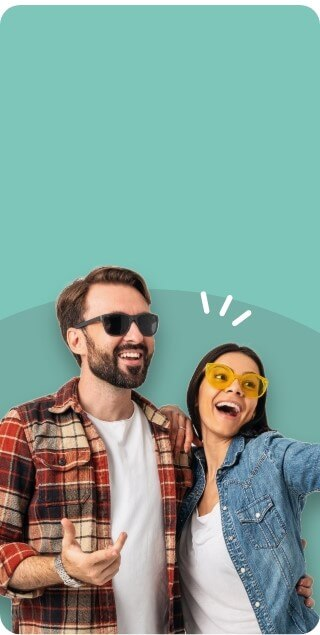
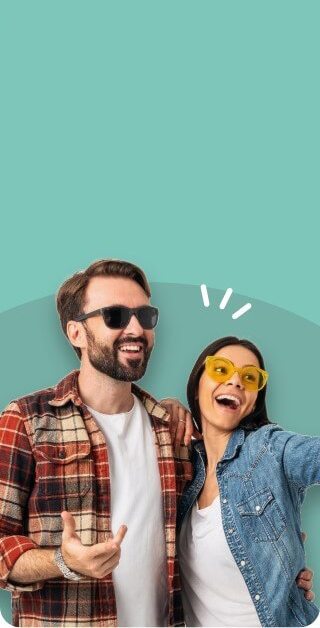
ultimos detalles mobile

diff --git a/landing-bodas.html b/landing-bodas.html
@@ -47,7 +47,7 @@
         <div class="container position-relative ">
 			<div class="row">
 				<div class="col-sm-6"></div>
-				<div class="col-sm-6 text-sm-end text-center pb-3 pb-sm-0">
+				<div class="col-sm-6 text-sm-end text-center pb-5 mb-5 mb-sm-0 pb-sm-0">
 					<div class="py-3"></div>
 					<h1 class="text-white fw-800 mt-0 fs-sm-48 fs-36">¡Crea tu invitación <br />
 					de boda soñada!</h1>
@@ -82,13 +82,13 @@
                                 Selecciona fotos significativas de ustedes, agrega frases que los identifiquen y su
                                 canción especial.</p>
                         </div>
-                        <div class="img-card"><img src="img/landing-bodas/benef-01.jpg" class="card-img bottom"
+                        <div class="img-card"><img src="img/landing-bodas/benef-01.jpg" class="card-img bottom w-100"
                                 alt="..."></div>
                     </div>
                 </div>
                 <div class="">
                     <div class="card border-0 h-100 bg-gray-light rounded-4">
-                        <div class="img-card"><img src="img/landing-bodas/benef-02.jpg" class="card-img top" alt="...">
+                        <div class="img-card"><img src="img/landing-bodas/benef-02.jpg" class="card-img top w-100" alt="...">
                         </div>
                         <div class="card-body text-center">
                             <div class="position-relative border border-1 rounded-pill  py-2 px-4 border-dark">
@@ -115,13 +115,13 @@
                                 y la identidad de la pareja. Simplemente elige una plantilla, personalízala como quieras
                                 y ¡listo!</p>
                         </div>
-                        <div class="img-card"><img src="img/landing-bodas/benef-03.jpg" class="card-img bottom"
+                        <div class="img-card"><img src="img/landing-bodas/benef-03.jpg" class="card-img bottom w-100"
                                 alt="..."></div>
                     </div>
                 </div>
                 <div class="">
                     <div class="card border-0 h-100 bg-gray-light rounded-4">
-                        <div class="img-card"><img src="img/landing-bodas/benef-04.jpg" class="card-img top" alt="...">
+                        <div class="img-card"><img src="img/landing-bodas/benef-04.jpg" class="card-img top w-100" alt="...">
                         </div>
                         <div class="card-body text-center">
                             <div class="position-relative border border-1 rounded-pill  py-2 px-4 border-dark">
@@ -163,7 +163,7 @@
     <div class="d-sm-none create2 position-relative">
         <div class="container justify-content-center" style="background-image: url('img/landing-bodas/bg-cta-mobile.jpg');">
             <div class="mt-5 pb-5">
-                <h2 class="text-white mt-5 fs-sm-26 text-center fw-600">CREA TU  <span class="fw-800">INVITACION <br>
+                <h2 class="text-white fs-sm-26 text-center fw-600">CREA TU  <span class="fw-800">INVITACION <br>
                         GRATUITA</span>
                     Y CON <br> GRANDES BENEFICIOS
                 </h2>
@@ -182,7 +182,7 @@
                         style="color: #F1B20A;">.</span></h2>
             </div>
 
-            <div class="position-relative mb-5 pb-5 mt-4">
+            <div class="position-relative mb-sm-5 pb-sm-5 mt-4">
                 <div class="my-slider  mx-3">
                     <div>
                         <a href="#">
@@ -304,7 +304,7 @@
                                     <p class="text-center fw-500 fs-sm-32 mb-0">$5.000</p>
                                 </div>
                                 <div class="bg-white pb-4 packs-items">
-                                    <div class="bg-aqua chose position-relative text-center rounded-4 p-3">
+                                    <div class="bg-aqua chose position-relative text-center rounded-4 p-3 text-white">
                                         <p class="fw-800 fs-sm-21">PACK PREMIUM</p>
                                         <a href="#" class="btn rounded-pill border-dark example">Ver ejemplo</a>
                                     </div>

diff --git a/css/landing-bodas.css b/css/landing-bodas.css
@@ -208,12 +208,15 @@ a {
 }
 
 .create2 .container {
-  height: 85vh;
-  background-size: contain;
+  background-size: cover;
   background-position: center center;
   background-repeat: no-repeat;
   display: flex;
-  margin: 10px;
+  margin: 0 10px;
+  border-radius: 10px;
+  width: auto;
+  padding-bottom: 420px;
+  overflow: hidden;
 }
 
 /* PLANS */
@@ -425,6 +428,15 @@ a {
   right: -20px;
 }
 
+@media screen and (max-width: 900px) {
+  .tns-controls [data-controls="prev"] {
+    left: -10px;
+  }
+  .tns-controls [data-controls="next"] {
+    right: -15px;
+  }
+}
+
 @media (min-width: 1200px) {
   .container,
   .container-lg,
@@ -445,9 +457,7 @@ a {
     padding-right: 15px !important;
     transform: translateX(-15px);
   }
-  .tns-item img {
-    max-width: calc(100% - 15px);
-  }
+  
 
   .our-plans .price {
     width: 250px;
@@ -468,13 +478,18 @@ a {
     transform: rotate(0deg);
   }
   .our-plans .packs-items .arrow-white{
-    transform: rotate(180deg);
+    /* transform: rotate(180deg); */
     transition: 0.5s;
   }
 
   .our-plans .card.card-body{
     border: none;
   }
+
+  .reviews-mobile .my-slider-3{
+    padding-top: 60px;
+  }
+
   .reviews-mobile .my-slider-3 .col{
     height: 310px;
   }
@@ -558,16 +573,33 @@ footer .redes a:hover {
   }
 }
 
-[id*="tns"]{
-  margin: 0px 0px 0px 0px !important;
+@media screen and (min-width: 900px) {
+  [id*="-iw"]{
+    margin: 0px 0px 0px 0px !important;
+  }
 }
 
 @media screen and (max-width: 900px) {
-	.benefits [id*="tns"] {
-		margin: 0px -10px 0px 4px !important;
-		/* padding-right: 0px !important; */
-		transform: none;
-	}
+  #principal-spot{
+	  background-position: 31% 100%;
+	 }
+	.benefits [id*="-iw"]{
+    margin: 0px -30px 0px 17px !important;
+  }
+  .benefits .tns-controls{
+    display: none;
+  }
+  .models [id*="-iw"]{
+    margin: 0 -27px 0px 32px !important;
+  }
+  .reviews-mobile [id*="-iw"]{
+    margin: 0 0px 0px 13px !important;
+  }
+  .gift .container{
+    background-image: url(../img/landing-bodas/bg-premio-mobile.svg) !important;
+    background-position: center;
+    background-size: 100%;
+  }
 }
 
 
@@ -601,13 +633,14 @@ footer .redes a:hover {
 	bottom: 0;
 }
 .tns-nav > button{
-	display: inline-block;
+	display: block;
 	border: 0;
 	background-color: #000;
 	width: 12px !important;
 	height: 12px;
 	border-radius: 50%;
 	opacity: 0.5;
+	overflow: hidden;
 }
 .tns-nav > button.tns-nav-active{
     opacity: 1;

diff --git a/landing-bodas-fer.html b/landing-bodas-fer.html
@@ -191,8 +191,8 @@
 
     <div class="d-sm-none create2 position-relative">
         <div class="container justify-content-center" style="background-image: url('img/landing-bodas/bg-cta-mobile.jpg');">
-            <div class="mt-5 pb-5">
-                <h2 class="text-white mt-5 fs-sm-26 text-center fw-600">CREA TU  <span class="fw-800">INVITACION <br>
+            <div class="mt-0 pb-5">
+                <h2 class="text-white accordion mt-0 fs-sm-26 text-center fw-600">CREA TU  <span class="fw-800">INVITACION <br>
                         GRATUITA</span>
                     Y CON <br> GRANDES BENEFICIOS
                 </h2>
